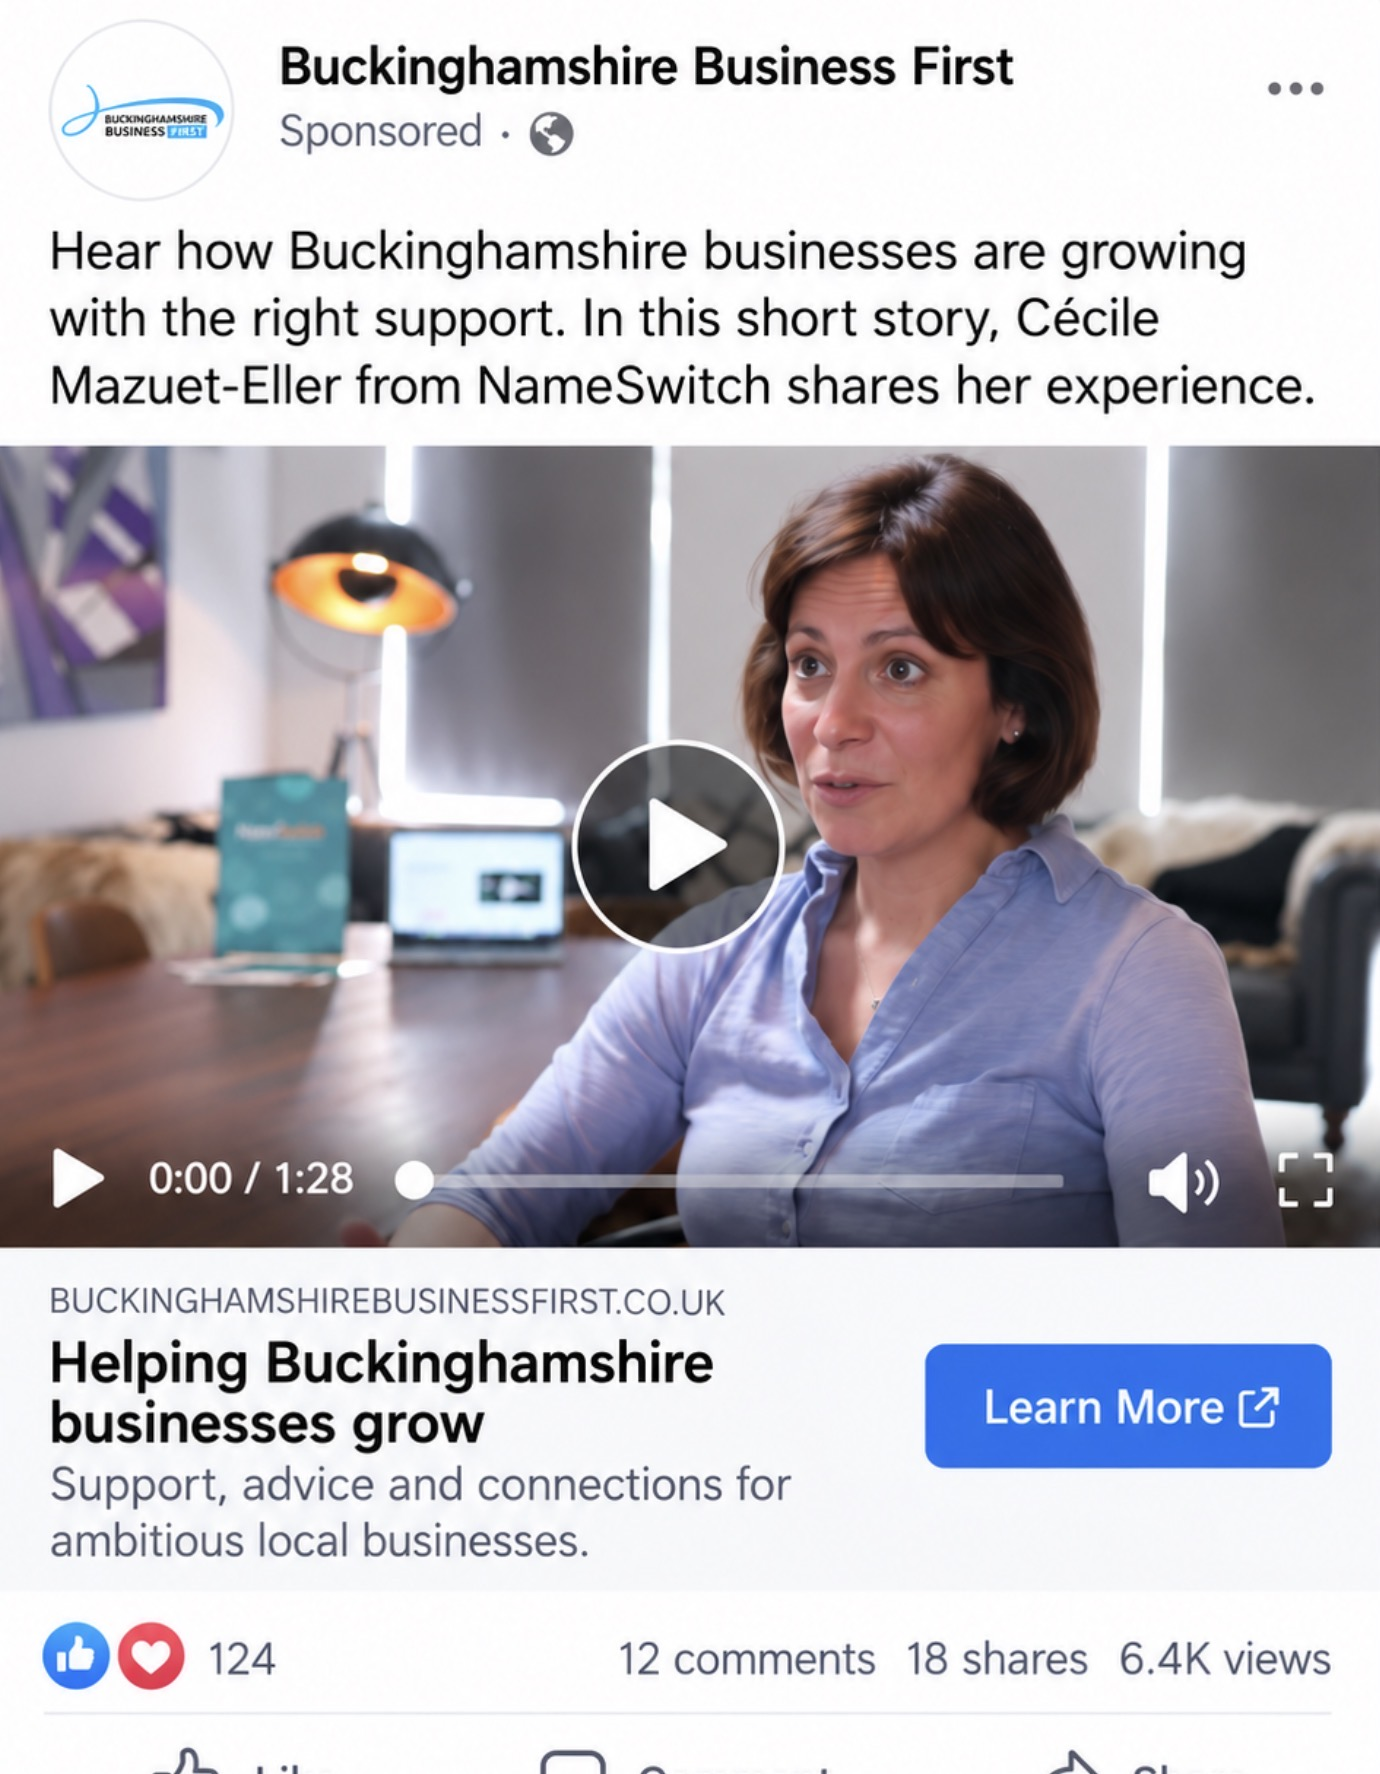
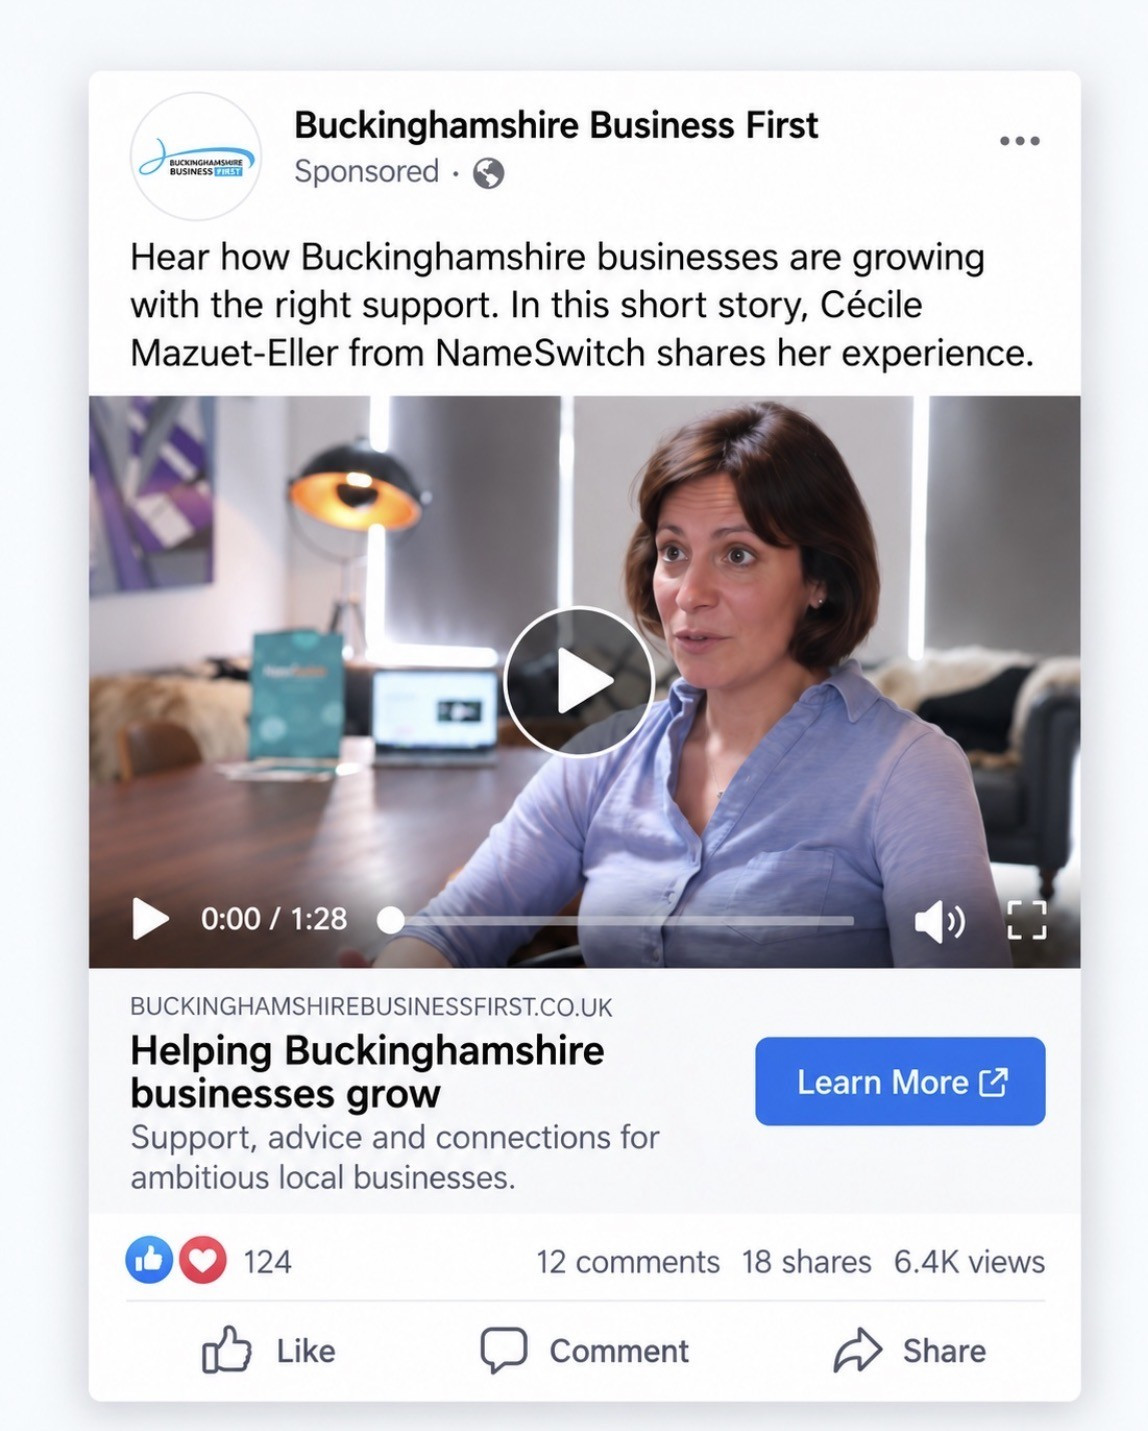
Replace NameSwitch and Next Gen ad images; block image downloads site-wide
Claude-Session: https://claude.ai/code/session_01RhkXi8NosVPc171cTS79RY

diff --git a/src/App.tsx b/src/App.tsx
@@ -242,48 +242,48 @@ function CampaignArtwork({ project, style }: { project: "bigger" | "aria" | "ski
       {project === "jpmam" && (
         <>
           <span className="cdp-art-note">CONTENT EXAMPLES + SOCIAL LISTENING · 2020</span>
-          <div className="cdp-bigger-gallery cdp-jpmam-gallery" tabIndex={0} aria-label="Selected J.P. Morgan Asset Management content examples and social listening snapshots. Scroll horizontally to explore and open an image at full size.">
+          <div className="cdp-bigger-gallery cdp-jpmam-gallery" tabIndex={0} aria-label="Selected J.P. Morgan Asset Management content examples and social listening snapshots. Scroll horizontally to explore.">
             {jpmamSamples.map((sample) => (
               <figure key={sample.caption}>
-                <a href={sample.image} target="_blank" rel="noreferrer" aria-label={`Open full-size image: ${sample.caption}`}>
+                <div className="cdp-gallery-frame">
                   <img src={sample.image} alt={sample.alt} />
-                </a>
+                </div>
                 <figcaption>{sample.caption}</figcaption>
               </figure>
             ))}
-            <span className="cdp-bigger-gallery-hint" aria-hidden="true">SCROLL · CLICK TO ENLARGE <ArrowRight size={11} /></span>
+            <span className="cdp-bigger-gallery-hint" aria-hidden="true">SCROLL <ArrowRight size={11} /></span>
           </div>
         </>
       )}
       {project === "abba" && (
         <>
           <span className="cdp-art-note">ANIARA → ABBA VOYAGE · MY WORK DEC 2020 – MAR 2021 · POST PUBLISHED AFTER MY CONTRACT ENDED</span>
-          <div className="cdp-bigger-gallery cdp-abba-gallery" tabIndex={0} aria-label="ABBA Voyage social launch posts planned by Camilla, alongside selected Aniara and ABBA Voyage audience research and strategy examples. Scroll to explore and open images at full size.">
+          <div className="cdp-bigger-gallery cdp-abba-gallery" tabIndex={0} aria-label="ABBA Voyage social launch posts planned by Camilla, alongside selected Aniara and ABBA Voyage audience research and strategy examples. Scroll to explore.">
             {abbaSamples.map((sample) => (
               <figure key={sample.caption}>
-                <a href={sample.image} target="_blank" rel="noreferrer" aria-label={`Open full-size image: ${sample.caption}`}>
+                <div className="cdp-gallery-frame">
                   <img src={sample.image} alt={sample.alt} />
-                </a>
+                </div>
                 <figcaption>{sample.caption}</figcaption>
               </figure>
             ))}
-            <span className="cdp-bigger-gallery-hint" aria-hidden="true">SCROLL · CLICK TO ENLARGE <ArrowRight size={11} /></span>
+            <span className="cdp-bigger-gallery-hint" aria-hidden="true">SCROLL <ArrowRight size={11} /></span>
           </div>
         </>
       )}
       {project === "aria" && (
         <>
           <span className="cdp-art-note">CREATED NOV 2022 – FEB 2023 · PUBLISHED AFTER MY CONTRACT ENDED</span>
-          <div className="cdp-bigger-gallery cdp-aria-gallery" tabIndex={0} aria-label="ARIA interview-video screenshots edited to the prescribed simple branding, alongside social posts authored by Camilla. Scroll to explore and open images at full size.">
+          <div className="cdp-bigger-gallery cdp-aria-gallery" tabIndex={0} aria-label="ARIA interview-video screenshots edited to the prescribed simple branding, alongside social posts authored by Camilla. Scroll to explore.">
             {ariaSamples.map((sample) => (
               <figure key={sample.caption}>
-                <a href={sample.image} target="_blank" rel="noreferrer" aria-label={`Open full-size image: ${sample.caption}`}>
+                <div className="cdp-gallery-frame">
                   <img src={sample.image} alt={sample.alt} />
-                </a>
+                </div>
                 <figcaption>{sample.caption}</figcaption>
               </figure>
             ))}
-            <span className="cdp-bigger-gallery-hint" aria-hidden="true">SCROLL · CLICK TO ENLARGE <ArrowRight size={11} /></span>
+            <span className="cdp-bigger-gallery-hint" aria-hidden="true">SCROLL <ArrowRight size={11} /></span>
           </div>
         </>
       )}
@@ -293,6 +293,8 @@ function CampaignArtwork({ project, style }: { project: "bigger" | "aria" | "ski
           <video
             className="cdp-skills-video"
             controls
+            controlsList="nodownload"
+            disablePictureInPicture
             playsInline
             preload="metadata"
             poster={bucksSkillsShowPoster}
@@ -306,16 +308,16 @@ function CampaignArtwork({ project, style }: { project: "bigger" | "aria" | "ski
       {project === "novartis" && (
         <>
           <span className="cdp-art-note">NOVARTIS UK · STRATEGY, CAMPAIGNS + AUDIENCE INSIGHT · 2020</span>
-          <div className="cdp-bigger-gallery cdp-novartis-gallery" tabIndex={0} aria-label="Selected Novartis strategy, campaign and audience insight samples. Scroll horizontally to explore and open an image at full size.">
+          <div className="cdp-bigger-gallery cdp-novartis-gallery" tabIndex={0} aria-label="Selected Novartis strategy, campaign and audience insight samples. Scroll horizontally to explore.">
             {novartisSamples.map((sample) => (
               <figure key={sample.caption}>
-                <a href={sample.image} target="_blank" rel="noreferrer" aria-label={`Open full-size image: ${sample.caption}`}>
+                <div className="cdp-gallery-frame">
                   <img src={sample.image} alt={sample.alt} />
-                </a>
+                </div>
                 <figcaption>{sample.caption}</figcaption>
               </figure>
             ))}
-            <span className="cdp-bigger-gallery-hint" aria-hidden="true">SCROLL · CLICK TO ENLARGE <ArrowRight size={11} /></span>
+            <span className="cdp-bigger-gallery-hint" aria-hidden="true">SCROLL <ArrowRight size={11} /></span>
           </div>
         </>
       )}
@@ -412,6 +414,8 @@ function PaidMediaSection() {
               <figure>
                 <video
                   controls
+                  controlsList="nodownload"
+                  disablePictureInPicture
                   playsInline
                   preload="metadata"
                   poster={bucksSkillsShowPoster}
@@ -555,7 +559,11 @@ function App() {
   };
 
   return (
-    <main className="camilla">
+    <main
+      className="camilla"
+      onContextMenu={(event) => { if ((event.target as HTMLElement).closest("img, video")) event.preventDefault(); }}
+      onDragStart={(event) => { if ((event.target as HTMLElement).closest("img")) event.preventDefault(); }}
+    >
       <style>{`
         @import url('https://fonts.googleapis.com/css2?family=DM+Mono:wght@400;500&family=DM+Sans:wght@400;500;600;700&family=Lora:wght@400;500;600;700&display=swap');
         .camilla {
@@ -647,8 +655,7 @@ function App() {
         .cdp-jpmam-gallery img { max-height:400px; }
         .cdp-novartis-gallery { padding-top:42px; }
         .cdp-novartis-gallery figure { flex-basis:345px; }
-        .cdp-novartis-gallery a { display:block; width:100%; cursor:zoom-in; }
-        .cdp-novartis-gallery a:focus-visible { outline:2px solid var(--blue); outline-offset:4px; }
+        .cdp-novartis-gallery .cdp-gallery-frame { display:block; width:100%; }
         .cdp-novartis-gallery img { height:auto; max-height:300px; width:100%; aspect-ratio:16 / 9; object-fit:contain; }
         .cdp-artwork-aria { background:#aabdc0; }
         .cdp-aria-sphere { width:255px; height:255px; background:var(--navy); color:var(--white); display:flex; flex-direction:column; justify-content:center; align-items:center; border-radius:50%; text-align:center; position:relative; z-index:2; }
@@ -685,8 +692,7 @@ function App() {
         .cdp-artwork-abba .cdp-art-note { color:#f4f0e7; }
         .cdp-abba-gallery { padding-top:44px; }
         .cdp-abba-gallery figure { flex-basis:410px; }
-        .cdp-abba-gallery a { display:block; width:100%; cursor:zoom-in; }
-        .cdp-abba-gallery a:focus-visible { outline:2px solid #b59643; outline-offset:4px; }
+        .cdp-abba-gallery .cdp-gallery-frame { display:block; width:100%; }
         .cdp-abba-gallery img { max-height:390px; }
         .cdp-abba-gallery figcaption { color:#f4f0e7; }
         .cdp-case-copy { padding:clamp(30px,5vw,68px); display:flex; flex-direction:column; justify-content:center; }
@@ -736,6 +742,7 @@ function App() {
         .camilla-paid-showcase-gallery figure { display:grid; align-content:center; gap:12px; min-width:0; margin:0; }
         .camilla-paid-showcase-gallery video { display:block; width:100%; max-width:100%; max-height:420px; aspect-ratio:9 / 16; object-fit:contain; background:#111; }
         .camilla-paid-showcase-gallery img { display:block; width:100%; max-height:420px; aspect-ratio:1; object-fit:contain; background:var(--cloud); }
+        .camilla img { -webkit-user-drag:none; user-select:none; -webkit-user-select:none; -webkit-touch-callout:none; }
         .camilla-no-zoom { pointer-events:none; user-select:none; -webkit-user-select:none; -webkit-user-drag:none; -webkit-touch-callout:none; }
         .camilla-paid-showcase-gallery figcaption { color:#f2eadb; font:500 12px/1.5 'DM Mono',monospace; letter-spacing:.04em; text-transform:uppercase; }
         .camilla-paid-video-caption { align-self:flex-start; color:#d0d6cd; font:500 12px/1.4 'DM Mono',monospace; letter-spacing:.06em; text-transform:uppercase; }
